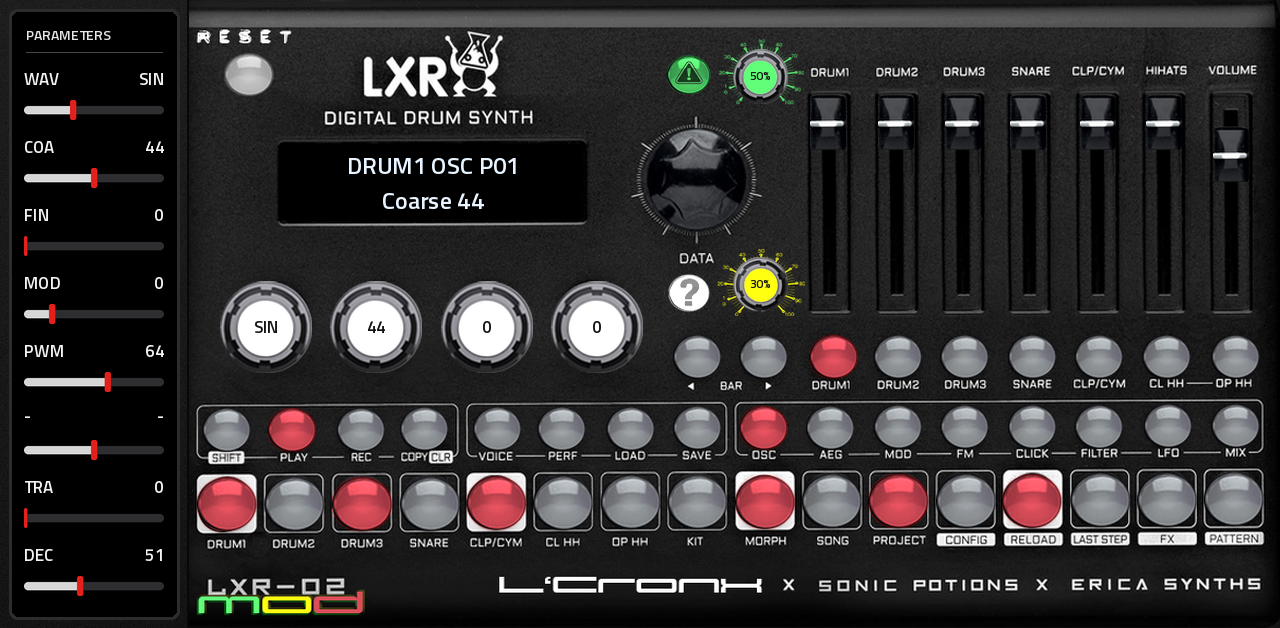
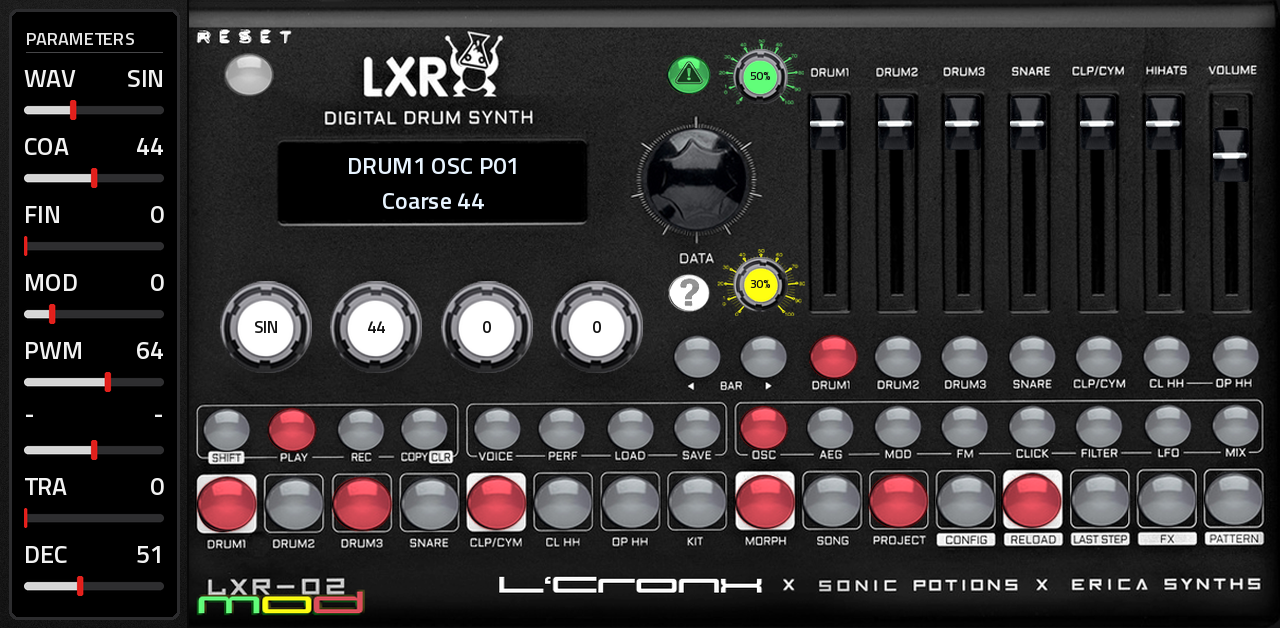
0.5.1: bigger text in the PARAMETERS column
Claude-Session: https://claude.ai/code/session_012PdoQHd6zQKzaDEM1R92LK

diff --git a/tools/panel_art.py b/tools/panel_art.py
@@ -67,7 +67,7 @@ def draw_background():
     x, y, w, h = P.COL
     d.rounded_rectangle([x - 3, y - 3, x + w + 3, y + h + 3], radius=8, fill=(44, 44, 46, 255))
     d.rounded_rectangle([x, y, x + w, y + h], radius=6, fill=(0, 0, 0, 255))
-    d.text((x + 14, y + 12), "PARAMETERS", font=font(14), fill=(230, 230, 230, 255))
+    d.text((x + 14, y + 12), "PARAMETERS", font=font(18), fill=(230, 230, 230, 255))
     d.line([(x + 14, y + 40), (x + w - 14, y + 40)], fill=(70, 70, 72, 255), width=1)
     # the seam between the column and the panel
     d.line([(P.OX - 1, 0), (P.OX - 1, P.H)], fill=(8, 8, 8, 255), width=2)
@@ -327,8 +327,8 @@ def main(skin):
     text_h = rh - P.BAR_H - 6
     new_defs.append(definition("lxrRow", KNOB_ACTIONS, [
         focus(rw, rh),
-        label("Name", "Name", bounds(0, 0, rw * 0.55, text_h), 17, ROW_INK, "left verticallyCentred"),
-        label("Value", "Value", bounds(rw * 0.4, 0, rw * 0.6, text_h), 17, ROW_INK, "right verticallyCentred"),
+        label("Name", "Name", bounds(0, 0, rw * 0.55, text_h), 25, ROW_INK, "left verticallyCentred"),
+        label("Value", "Value", bounds(rw * 0.3, 0, rw * 0.7, text_h), 25, ROW_INK, "right verticallyCentred"),
         filmstrip("Slider", "lxr_bar.png", frames, rw, P.BAR_H, "Horizontal", 0, text_h + 4)]))
     for i in range(8):
         put("slot%d" % (i + 1), "lxrRow", P.row_box(i))

diff --git a/CHANGELOG.md b/CHANGELOG.md
@@ -1,5 +1,8 @@
 # Changelog
 
+## 0.5.1
+- PARAMETERS column: bigger names and values (25 px, was 17) and heading.
+
 ## 0.5.0
 - Factory presets: the Hrtl LXR-02 DLC project (64 kits, 16 demo patterns with their kits), imported from the LXR-02's
   own files by tools/import_lxr02.py. A new instance starts on it; a saved MPC project opens as saved.

diff --git a/README.md b/README.md
@@ -1,4 +1,4 @@
-# LXRXXL v0.5.0
+# LXRXXL v0.5.1
 
 ![LXRXXL on MPC](docs/img/page.png)
 
